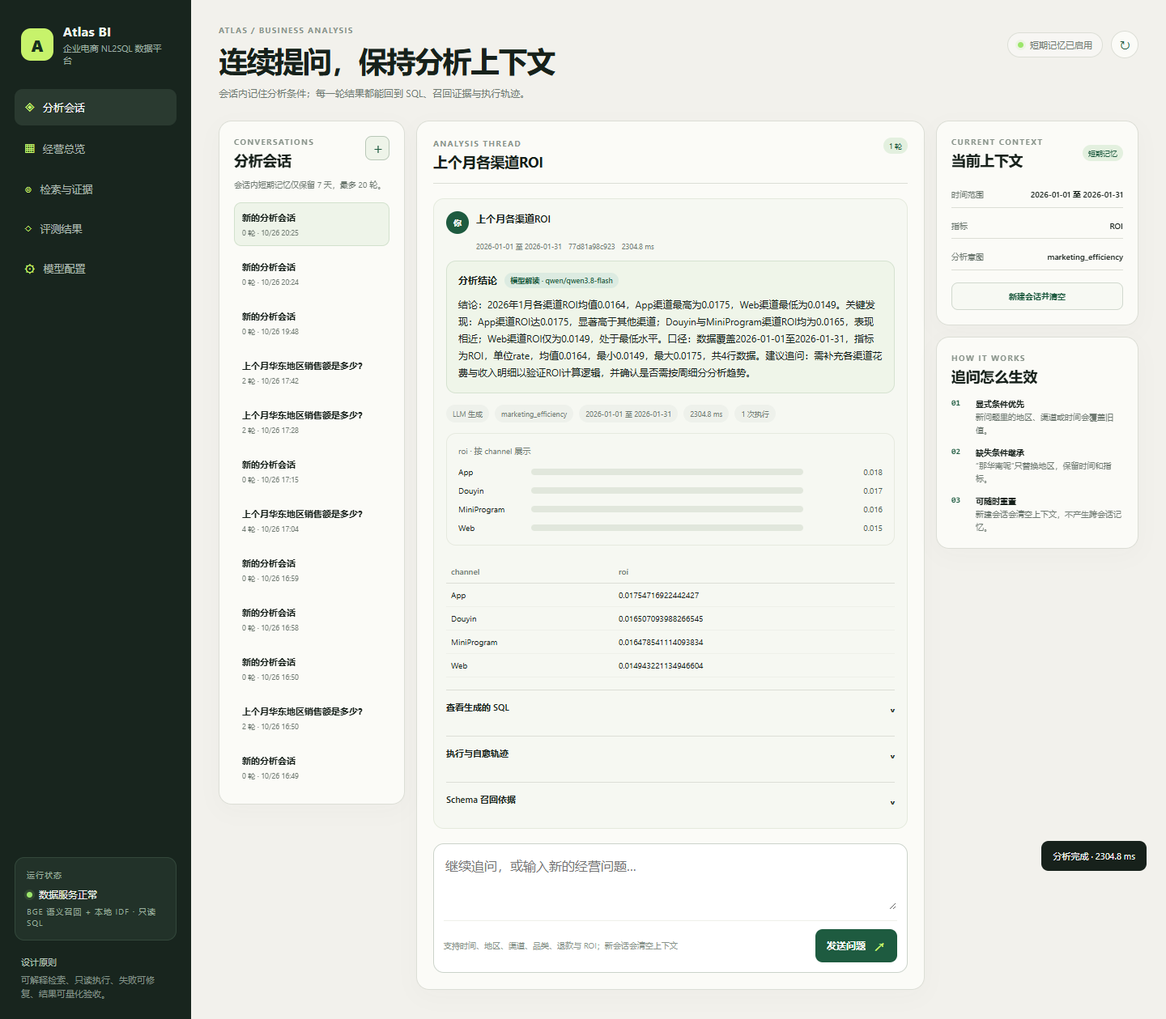
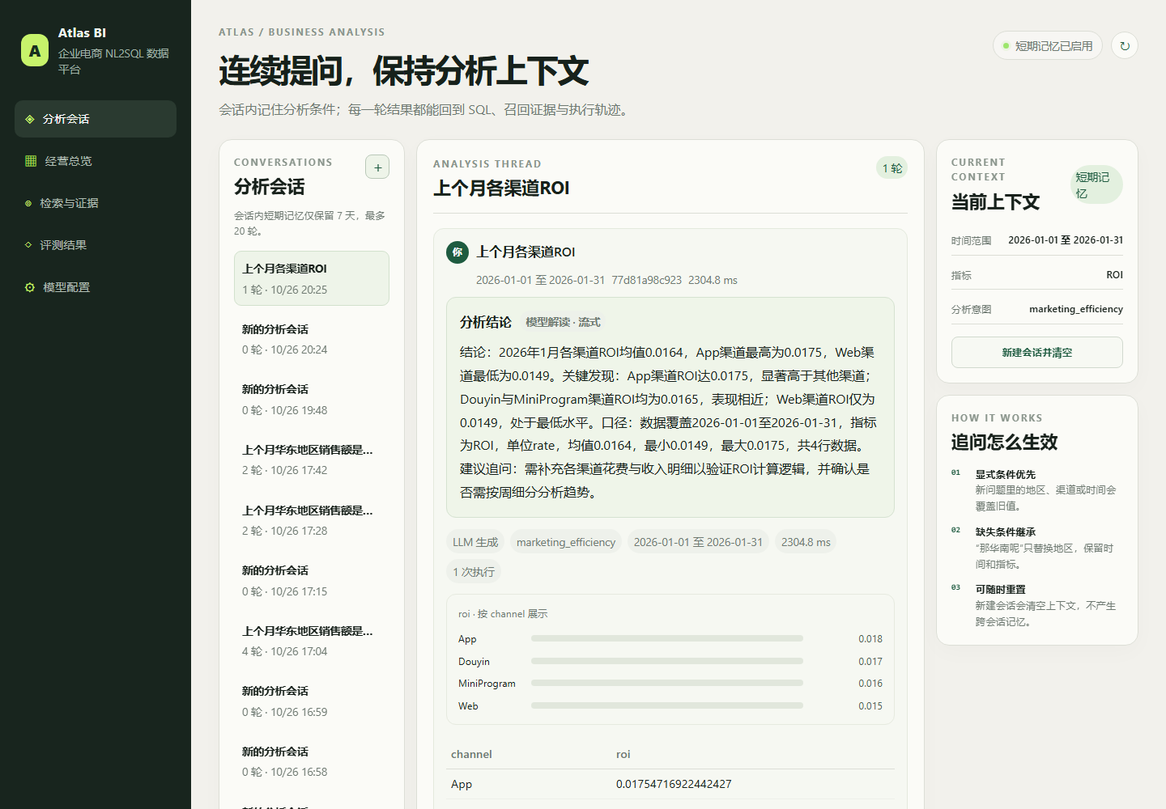
fix: improve workspace readability
Increase workspace typography and refresh the README streaming screenshot.

diff --git a/app/static/styles.css b/app/static/styles.css
@@ -1,126 +1,126 @@
-:root{--bg:#f2f1ec;--ink:#17211b;--muted:#6f7a72;--line:#dcded6;--card:#fbfbf7;--green:#1e5b40;--green-soft:#dcebe1;--lime:#c7f36b;--orange:#d87436;--shadow:0 18px 60px rgba(28,47,35,.08)}
+:root{--fs-caption:clamp(12px,.86vw,13px);--fs-meta:clamp(13px,.94vw,14px);--fs-small:clamp(14px,1vw,15px);--fs-body:16px;--bg:#f2f1ec;--ink:#17211b;--muted:#6f7a72;--line:#dcded6;--card:#fbfbf7;--green:#1e5b40;--green-soft:#dcebe1;--lime:#c7f36b;--orange:#d87436;--shadow:0 18px 60px rgba(28,47,35,.08)}
 *{box-sizing:border-box}html,body{margin:0;min-height:100%}
-body{background:var(--bg);color:var(--ink);font-family:"Aptos","Segoe UI","PingFang SC","Microsoft YaHei",sans-serif;-webkit-font-smoothing:antialiased}
+body{background:var(--bg);color:var(--ink);font-size:var(--fs-body);line-height:1.5;font-family:"Aptos","Segoe UI","PingFang SC","Microsoft YaHei",sans-serif;-webkit-font-smoothing:antialiased}
 button,textarea{font:inherit}button{cursor:pointer}
 .app-shell{display:grid;grid-template-columns:236px 1fr;min-height:100vh}
 .sidebar{background:#18251e;color:#eef3ed;padding:28px 18px 22px;display:flex;flex-direction:column}
 .brand{display:flex;align-items:center;gap:12px;padding:0 8px 28px}
 .brand-mark{width:40px;height:40px;border-radius:12px;display:grid;place-items:center;background:var(--lime);color:#17301f;font-weight:800;font-size:20px}
-.brand-name{font-weight:700;letter-spacing:.02em}.brand-sub{color:#9fafa3;font-size:11px;margin-top:3px}
-.nav{display:grid;gap:6px}.nav-item{border:0;background:transparent;color:#aebbb1;display:flex;gap:10px;align-items:center;text-align:left;padding:11px 12px;border-radius:10px;font-size:13px}
+.brand-name{font-weight:700;letter-spacing:.02em}.brand-sub{color:#9fafa3;font-size:var(--fs-meta);margin-top:3px}
+.nav{display:grid;gap:6px}.nav-item{border:0;background:transparent;color:#aebbb1;display:flex;gap:10px;align-items:center;text-align:left;padding:11px 12px;border-radius:10px;font-size:var(--fs-small)}
 .nav-item:hover,.nav-item.active{background:#2a3a30;color:#fff}.nav-icon{color:var(--lime);font-size:16px}
 .sidebar-card{margin-top:auto;background:#223229;border:1px solid #33483b;border-radius:12px;padding:14px}
-.sidebar-label,.mini-meta{color:#9caf9f;font-size:10px;text-transform:uppercase;letter-spacing:.1em}
-.status-row{display:flex;align-items:center;gap:8px;font-size:12px;margin:9px 0 6px}
+.sidebar-label,.mini-meta{color:#9caf9f;font-size:var(--fs-caption);text-transform:uppercase;letter-spacing:.1em}
+.status-row{display:flex;align-items:center;gap:8px;font-size:var(--fs-body);margin:9px 0 6px}
 .status-dot{width:7px;height:7px;border-radius:50%;background:#9ce66b;display:inline-block;box-shadow:0 0 0 3px rgba(156,230,107,.12)}
-.sidebar-foot{color:#849489;font-size:11px;padding:18px 8px 0;line-height:1.6}.foot-title{color:#b7c6ba;margin-bottom:4px}.sidebar-foot p{margin:0}
+.sidebar-foot{color:#849489;font-size:var(--fs-meta);padding:18px 8px 0;line-height:1.6}.foot-title{color:#b7c6ba;margin-bottom:4px}.sidebar-foot p{margin:0}
 .main{padding:30px 34px 36px;max-width:1700px}
 .topbar{display:flex;align-items:flex-start;justify-content:space-between;gap:20px;margin-bottom:24px}
-.eyebrow{color:#8a958c;letter-spacing:.12em;font-size:10px;font-weight:700}
-h1{margin:6px 0 0;font-size:clamp(24px,2.5vw,36px);font-weight:600;letter-spacing:-.04em}
-h2{margin:4px 0 0;font-size:18px;font-weight:650;letter-spacing:-.02em}h3{margin:20px 0 6px;font-size:17px}
+.eyebrow{color:#8a958c;letter-spacing:.12em;font-size:var(--fs-caption);font-weight:700}
+h1{margin:6px 0 0;font-size:clamp(29px,2.75vw,40px);font-weight:600;letter-spacing:-.04em}
+h2{margin:4px 0 0;font-size:clamp(21px,1.55vw,24px);font-weight:650;letter-spacing:-.02em}h3{margin:20px 0 6px;font-size:20px}
 .top-actions{display:flex;align-items:center;gap:10px;padding-top:8px}
-.pill{display:inline-flex;align-items:center;gap:8px;border:1px solid var(--line);border-radius:100px;padding:7px 12px;font-size:11px;color:var(--muted);background:rgba(255,255,255,.38)}
+.pill{display:inline-flex;align-items:center;gap:8px;border:1px solid var(--line);border-radius:100px;padding:7px 12px;font-size:var(--fs-meta);color:var(--muted);background:rgba(255,255,255,.38)}
 .icon-btn{border:1px solid var(--line);background:var(--card);width:34px;height:34px;border-radius:50%;color:var(--green)}
 .metrics-grid,.eval-summary{display:grid;grid-template-columns:repeat(4,1fr);gap:12px;margin-bottom:14px}
 .metric-card{background:var(--card);border:1px solid var(--line);border-radius:14px;padding:16px 18px;min-height:104px;position:relative;overflow:hidden}
 .metric-card::after{content:"";position:absolute;width:80px;height:80px;right:-32px;bottom:-40px;border-radius:50%;background:var(--green-soft);opacity:.7}
-.metric-label{font-size:11px;color:var(--muted);display:flex;justify-content:space-between}
-.metric-value{font-size:27px;margin-top:15px;font-weight:650;letter-spacing:-.04em}
-.metric-foot{font-size:10px;color:var(--muted);margin-top:6px}
+.metric-label{font-size:var(--fs-meta);color:var(--muted);display:flex;justify-content:space-between}
+.metric-value{font-size:30px;margin-top:15px;font-weight:650;letter-spacing:-.04em}
+.metric-foot{font-size:var(--fs-caption);color:var(--muted);margin-top:6px}
 .skeleton{background:linear-gradient(90deg,#ebede5 20%,#f7f8f2 50%,#ebede5 80%);background-size:220% 100%;animation:shimmer 1.3s infinite}
 @keyframes shimmer{to{background-position:-220% 0}}
 .workspace-grid{display:grid;grid-template-columns:minmax(390px,.88fr) minmax(0,1.25fr);gap:14px}
 .panel{background:var(--card);border:1px solid var(--line);border-radius:16px;box-shadow:0 8px 28px rgba(36,50,40,.025)}
 .ask-panel{padding:22px}.result-panel{padding:22px;min-height:470px;overflow:auto}
 .panel-head{display:flex;align-items:flex-start;justify-content:space-between;gap:14px}.panel-head.compact{align-items:center}
-.panel-kicker{font-size:10px;letter-spacing:.13em;color:#8a958c;font-weight:750}
-.tag{background:var(--green-soft);color:var(--green);font-size:10px;padding:6px 9px;border-radius:7px}
+.panel-kicker{font-size:var(--fs-caption);letter-spacing:.13em;color:#8a958c;font-weight:750}
+.tag{background:var(--green-soft);color:var(--green);font-size:var(--fs-caption);padding:6px 9px;border-radius:7px}
 .query-form{margin-top:22px;border:1px solid #cbd3ca;border-radius:13px;background:#fff;padding:14px}
 .query-form:focus-within{border-color:var(--green);box-shadow:0 0 0 3px rgba(30,91,64,.08)}
 textarea{width:100%;border:0;outline:0;resize:vertical;min-height:70px;color:var(--ink);background:transparent;line-height:1.6;font-size:16px}
 .form-foot{display:flex;justify-content:space-between;align-items:center;gap:10px;border-top:1px solid #eef0e9;padding-top:11px}
-.hint{color:#8a958c;font-size:10px;line-height:1.4}
-.primary-btn{border:0;background:var(--green);color:#fff;border-radius:9px;padding:10px 14px;font-weight:600;font-size:12px;display:flex;align-items:center;gap:9px;white-space:nowrap}
+.hint{color:#8a958c;font-size:var(--fs-caption);line-height:1.4}
+.primary-btn{border:0;background:var(--green);color:#fff;border-radius:9px;padding:10px 14px;font-weight:600;font-size:var(--fs-body);display:flex;align-items:center;gap:9px;white-space:nowrap}
 .primary-btn:hover{background:#123e2a}.primary-btn:disabled{opacity:.6}.arrow{font-size:16px;color:var(--lime)}
-.section-label{color:#839087;font-size:10px;letter-spacing:.12em;text-transform:uppercase;margin:23px 0 9px}
+.section-label{color:#839087;font-size:var(--fs-caption);letter-spacing:.12em;text-transform:uppercase;margin:23px 0 9px}
 .example-list{display:flex;flex-wrap:wrap;gap:7px}
-.example-chip{border:1px solid var(--line);background:#f8f9f4;color:#536058;border-radius:100px;padding:7px 10px;font-size:11px;text-align:left}
+.example-chip{border:1px solid var(--line);background:#f8f9f4;color:#536058;border-radius:100px;padding:7px 10px;font-size:var(--fs-meta);text-align:left}
 .example-chip:hover{border-color:#8cab94;color:var(--green);background:#edf5eb}
 .pipeline{margin-top:24px;padding-top:15px;border-top:1px solid var(--line);display:flex;align-items:center;justify-content:space-between;gap:5px}
-.pipeline-step{font-size:9px;color:var(--muted);white-space:nowrap}.pipeline-step span{display:block;color:#819989;font-size:9px;font-weight:700;margin-bottom:3px}
-.pipeline-arrow{color:#b1c1b5;font-size:11px}
+.pipeline-step{font-size:var(--fs-meta);color:var(--muted);white-space:nowrap}.pipeline-step span{display:block;color:#819989;font-size:var(--fs-meta);font-weight:700;margin-bottom:3px}
+.pipeline-arrow{color:#b1c1b5;font-size:var(--fs-meta)}
 .empty-state{min-height:420px;display:flex;flex-direction:column;justify-content:center;align-items:center;text-align:center;padding:30px}
-.empty-state p{max-width:370px;color:var(--muted);font-size:12px;line-height:1.7}
+.empty-state p{max-width:370px;color:var(--muted);font-size:var(--fs-body);line-height:1.7}
 .empty-orbit{position:relative;width:104px;height:104px;border:1px dashed #b6cbb9;border-radius:50%;display:grid;place-items:center}
 .orbit-core{width:55px;height:55px;border-radius:50%;background:var(--green);color:var(--lime);display:grid;place-items:center;font-weight:750;letter-spacing:-.03em}
 .orbit-dot{position:absolute;width:8px;height:8px;border-radius:50%;background:var(--orange)}.dot-one{top:5px;right:20px}.dot-two{bottom:13px;left:10px;background:var(--green)}
-.feature-row{display:flex;gap:14px;flex-wrap:wrap;justify-content:center;color:#62776a;font-size:10px;margin-top:13px}
+.feature-row{display:flex;gap:14px;flex-wrap:wrap;justify-content:center;color:#62776a;font-size:var(--fs-caption);margin-top:13px}
 .feature-row span::before{content:"✓";color:var(--green);margin-right:4px}
 .bottom-grid{display:grid;grid-template-columns:1.55fr 1fr;gap:14px;margin-top:14px}
 .trend-panel,.channel-panel{padding:20px 22px 16px;min-height:230px}
-.muted{color:var(--muted);font-size:10px}
+.muted{color:var(--muted);font-size:var(--fs-caption)}
 .trend-chart{height:160px;display:flex;align-items:flex-end;gap:5px;padding-top:22px;border-bottom:1px solid var(--line)}
 .bar-wrap{flex:1;height:100%;display:flex;align-items:flex-end;min-width:4px;position:relative}
 .bar{width:100%;background:var(--green);border-radius:4px 4px 0 0;min-height:3px;transition:height .5s ease;opacity:.9}
-.bar-wrap:hover .bar{background:var(--orange)}.bar-wrap:hover::after{content:attr(data-label);position:absolute;bottom:calc(100% + 5px);font-size:9px;background:var(--ink);color:#fff;padding:4px 6px;border-radius:4px;white-space:nowrap;z-index:2}
-.channel-list{display:grid;gap:13px;padding-top:24px}.channel-row{display:grid;grid-template-columns:80px 1fr 60px;align-items:center;gap:10px;font-size:11px}
+.bar-wrap:hover .bar{background:var(--orange)}.bar-wrap:hover::after{content:attr(data-label);position:absolute;bottom:calc(100% + 5px);font-size:var(--fs-meta);background:var(--ink);color:#fff;padding:4px 6px;border-radius:4px;white-space:nowrap;z-index:2}
+.channel-list{display:grid;gap:13px;padding-top:24px}.channel-row{display:grid;grid-template-columns:80px 1fr 60px;align-items:center;gap:10px;font-size:var(--fs-meta)}
 .channel-track{height:7px;background:#e8ebe3;border-radius:100px;overflow:hidden}.channel-fill{height:100%;background:var(--green);border-radius:100px}.channel-value{text-align:right;color:var(--muted)}
-.result-answer{background:#eff5e9;border:1px solid #d5e2d0;border-radius:12px;padding:14px;margin-bottom:14px;font-size:12px;line-height:1.65}
-.result-meta{display:flex;gap:7px;flex-wrap:wrap;margin-bottom:13px}.small-pill{font-size:9px;padding:5px 8px;border-radius:100px;background:#eef1eb;color:var(--muted)}
+.result-answer{background:#eff5e9;border:1px solid #d5e2d0;border-radius:12px;padding:16px;margin-bottom:14px;font-size:var(--fs-body);line-height:1.65}
+.result-meta{display:flex;gap:7px;flex-wrap:wrap;margin-bottom:13px}.small-pill{font-size:var(--fs-meta);padding:5px 8px;border-radius:100px;background:#eef1eb;color:var(--muted)}
 .chart-box{background:#f6f8f2;border:1px solid #e6eadf;border-radius:12px;padding:14px;margin-bottom:13px}
-.chart-title{font-size:10px;color:var(--muted);margin-bottom:12px}.chart-bars{display:grid;gap:9px}.chart-row{display:grid;grid-template-columns:82px 1fr 90px;align-items:center;gap:8px;font-size:10px}.chart-track{height:8px;background:#e1e7dc;border-radius:100px;overflow:hidden}.chart-fill{height:100%;background:var(--green);border-radius:100px}.chart-num{text-align:right;color:#4f5f53}
-.result-table{width:100%;border-collapse:collapse;font-size:10px;margin-top:5px}.result-table th{text-align:left;color:var(--muted);font-weight:500;border-bottom:1px solid var(--line);padding:7px 6px}.result-table td{padding:7px 6px;border-bottom:1px solid #eef0e9}
-.sql-block{background:#17251d;color:#d7ecd9;border-radius:10px;padding:13px;font:10px/1.65 Consolas,"Courier New",monospace;white-space:pre-wrap;overflow:auto;max-height:190px}
-.accordion{border-top:1px solid var(--line);margin-top:15px}.accordion summary{list-style:none;cursor:pointer;padding:13px 0;font-size:11px;font-weight:600;display:flex;justify-content:space-between}.accordion summary::-webkit-details-marker{display:none}
-.trace{display:grid;gap:7px}.trace-item{display:flex;align-items:center;gap:8px;font-size:10px;color:var(--muted)}.trace-mark{width:18px;height:18px;border-radius:50%;display:grid;place-items:center;background:#e5efe3;color:var(--green);font-size:9px}.trace-mark.bad{background:#f6e4da;color:var(--orange)}
+.chart-title{font-size:var(--fs-caption);color:var(--muted);margin-bottom:12px}.chart-bars{display:grid;gap:9px}.chart-row{display:grid;grid-template-columns:82px 1fr 90px;align-items:center;gap:8px;font-size:var(--fs-caption)}.chart-track{height:8px;background:#e1e7dc;border-radius:100px;overflow:hidden}.chart-fill{height:100%;background:var(--green);border-radius:100px}.chart-num{text-align:right;color:#4f5f53}
+.result-table{width:100%;border-collapse:collapse;font-size:var(--fs-small);margin-top:5px}.result-table th{text-align:left;color:var(--muted);font-weight:500;border-bottom:1px solid var(--line);padding:7px 6px}.result-table td{padding:7px 6px;border-bottom:1px solid #eef0e9}
+.sql-block{background:#17251d;color:#d7ecd9;border-radius:10px;padding:13px;font:13px/1.7 Consolas,"Courier New",monospace;white-space:pre-wrap;overflow:auto;max-height:190px}
+.accordion{border-top:1px solid var(--line);margin-top:15px}.accordion summary{list-style:none;cursor:pointer;padding:13px 0;font-size:var(--fs-meta);font-weight:600;display:flex;justify-content:space-between}.accordion summary::-webkit-details-marker{display:none}
+.trace{display:grid;gap:7px}.trace-item{display:flex;align-items:center;gap:8px;font-size:var(--fs-caption);color:var(--muted)}.trace-mark{width:18px;height:18px;border-radius:50%;display:grid;place-items:center;background:#e5efe3;color:var(--green);font-size:var(--fs-meta)}.trace-mark.bad{background:#f6e4da;color:var(--orange)}
 .view{display:none}.view.active{display:block}
-.page-heading{padding:16px 0 22px}.page-heading h2{font-size:24px;margin:8px 0 6px}.page-heading p{color:var(--muted);font-size:12px;margin:0}
-.evidence-content{display:grid;gap:13px}.empty-small{min-height:160px;display:grid;place-items:center;color:var(--muted);font-size:12px}
-.schema-card{padding:18px 20px}.schema-head{display:flex;justify-content:space-between;align-items:flex-start;gap:10px}.schema-name{font-weight:650;font-size:13px}.schema-desc{color:var(--muted);font-size:11px;line-height:1.6;margin:6px 0 12px}
-.score-grid{display:grid;grid-template-columns:repeat(3,1fr);gap:8px}.score-box{background:#f3f5ef;border-radius:8px;padding:9px}.score-label{font-size:9px;color:var(--muted)}.score-value{font-size:16px;margin-top:4px;font-weight:650;color:var(--green)}
-.table-wrap{overflow:auto;margin-top:12px}.eval-table{width:100%;border-collapse:collapse;font-size:11px}.eval-table th{text-align:left;padding:9px;color:var(--muted);font-weight:500;border-bottom:1px solid var(--line)}.eval-table td{padding:10px 9px;border-bottom:1px solid #edf0e9}
-.badge{font-size:9px;padding:4px 7px;border-radius:100px;background:#e3f0df;color:var(--green)}.badge.fail{background:#f8e5db;color:var(--orange)}
-.secondary-btn{border:1px solid #b9c8b8;background:#f7f9f3;color:var(--green);border-radius:8px;padding:8px 12px;font-size:11px;font-weight:600}
-.toast{position:fixed;right:24px;bottom:24px;background:var(--ink);color:#fff;border-radius:9px;padding:11px 14px;font-size:11px;opacity:0;transform:translateY(8px);transition:.2s;z-index:20}.toast.show{opacity:1;transform:translateY(0)}
+.page-heading{padding:16px 0 22px}.page-heading h2{font-size:24px;margin:8px 0 6px}.page-heading p{color:var(--muted);font-size:var(--fs-body);margin:0}
+.evidence-content{display:grid;gap:13px}.empty-small{min-height:160px;display:grid;place-items:center;color:var(--muted);font-size:var(--fs-body)}
+.schema-card{padding:18px 20px}.schema-head{display:flex;justify-content:space-between;align-items:flex-start;gap:10px}.schema-name{font-weight:650;font-size:var(--fs-small)}.schema-desc{color:var(--muted);font-size:var(--fs-meta);line-height:1.6;margin:6px 0 12px}
+.score-grid{display:grid;grid-template-columns:repeat(3,1fr);gap:8px}.score-box{background:#f3f5ef;border-radius:8px;padding:9px}.score-label{font-size:var(--fs-meta);color:var(--muted)}.score-value{font-size:16px;margin-top:4px;font-weight:650;color:var(--green)}
+.table-wrap{overflow:auto;margin-top:12px}.eval-table{width:100%;border-collapse:collapse;font-size:var(--fs-meta)}.eval-table th{text-align:left;padding:9px;color:var(--muted);font-weight:500;border-bottom:1px solid var(--line)}.eval-table td{padding:10px 9px;border-bottom:1px solid #edf0e9}
+.badge{font-size:var(--fs-meta);padding:4px 7px;border-radius:100px;background:#e3f0df;color:var(--green)}.badge.fail{background:#f8e5db;color:var(--orange)}
+.secondary-btn{border:1px solid #b9c8b8;background:#f7f9f3;color:var(--green);border-radius:8px;padding:8px 12px;font-size:var(--fs-meta);font-weight:600}
+.toast{position:fixed;right:24px;bottom:24px;background:var(--ink);color:#fff;border-radius:9px;padding:11px 14px;font-size:var(--fs-meta);opacity:0;transform:translateY(8px);transition:.2s;z-index:20}.toast.show{opacity:1;transform:translateY(0)}
 
-.top-subtitle{color:var(--muted);font-size:12px;margin:8px 0 0;line-height:1.6}
+.top-subtitle{color:var(--muted);font-size:var(--fs-body);margin:8px 0 0;line-height:1.6}
 .session-shell{display:grid;grid-template-columns:230px minmax(420px,1fr) 250px;gap:14px;align-items:start}
 .session-rail{padding:18px;position:sticky;top:18px}
 .session-rail-head{display:flex;align-items:flex-start;justify-content:space-between;gap:10px}
-.session-rail-note{font-size:10px;line-height:1.6;color:var(--muted);margin:10px 0 14px}
+.session-rail-note{font-size:var(--fs-caption);line-height:1.6;color:var(--muted);margin:10px 0 14px}
 .new-session-btn{width:30px;height:30px;border-radius:8px;border:1px solid #b9c8b8;background:#eef4e9;color:var(--green);font-size:18px;line-height:1}
 .session-list{display:grid;gap:7px}
-.session-empty,.context-empty{padding:12px;border-radius:9px;background:#f3f5ef;color:var(--muted);font-size:10px;line-height:1.6}
+.session-empty,.context-empty{padding:12px;border-radius:9px;background:#f3f5ef;color:var(--muted);font-size:var(--fs-caption);line-height:1.6}
 .session-item{display:grid;gap:5px;text-align:left;border:1px solid transparent;background:transparent;border-radius:9px;padding:10px 9px;color:var(--ink)}
 .session-item:hover,.session-item.active{background:#eef4e9;border-color:#d2e1cd}
-.session-item-title{font-size:11px;font-weight:650;overflow:hidden;text-overflow:ellipsis;white-space:nowrap}
-.session-item-meta{font-size:9px;color:var(--muted)}
+.session-item-title{font-size:var(--fs-meta);font-weight:650;overflow:hidden;text-overflow:ellipsis;white-space:nowrap}
+.session-item-meta{font-size:var(--fs-meta);color:var(--muted)}
 .conversation-panel{padding:20px;min-height:610px;display:flex;flex-direction:column}
 .conversation-head{display:flex;justify-content:space-between;align-items:flex-start;gap:12px;border-bottom:1px solid var(--line);padding-bottom:14px}
 .conversation-thread{display:grid;gap:16px;padding:18px 0;flex:1;align-content:start;min-height:360px}
 .conversation-empty{max-width:560px;margin:40px auto;text-align:center;color:var(--muted)}
-.conversation-empty h3{color:var(--ink);margin:15px 0 6px}.conversation-empty p{font-size:11px;line-height:1.7;margin:0 auto 20px;max-width:480px}
+.conversation-empty h3{color:var(--ink);margin:15px 0 6px}.conversation-empty p{font-size:var(--fs-meta);line-height:1.7;margin:0 auto 20px;max-width:480px}
 .conversation-empty-mark{width:54px;height:54px;border-radius:16px;background:var(--green);color:var(--lime);display:grid;place-items:center;margin:0 auto;font-weight:750}
 .starter-grid{display:flex;flex-wrap:wrap;gap:7px;justify-content:center}
 .turn-card{background:#f6f8f2;border:1px solid #e4eadd;border-radius:13px;padding:15px}
-.turn-question{display:grid;grid-template-columns:28px 1fr;gap:9px;align-items:start;font-size:12px;font-weight:600;line-height:1.6}
-.turn-label{width:28px;height:28px;border-radius:50%;display:grid;place-items:center;background:var(--green);color:#fff;font-size:10px;font-weight:650}
-.turn-meta{display:flex;gap:8px;flex-wrap:wrap;color:var(--muted);font-size:9px;margin:9px 0 12px 37px}
+.turn-question{display:grid;grid-template-columns:28px 1fr;gap:9px;align-items:start;font-size:var(--fs-body);font-weight:600;line-height:1.6}
+.turn-label{width:28px;height:28px;border-radius:50%;display:grid;place-items:center;background:var(--green);color:#fff;font-size:var(--fs-caption);font-weight:650}
+.turn-meta{display:flex;gap:8px;flex-wrap:wrap;color:var(--muted);font-size:var(--fs-meta);margin:9px 0 12px 37px}
 .inherited-pill{background:#e9f3dc;color:#42632d}
 .composer{border:1px solid #cbd3ca;border-radius:13px;background:#fff;padding:12px;margin-top:auto}
 .composer-footer,.composer-foot{display:flex;justify-content:space-between;align-items:center;gap:10px;border-top:1px solid #eef0e9;padding-top:10px}
 .composer-foot{margin-top:8px}
-.thinking-card{display:flex;align-items:center;gap:9px;padding:11px 13px;color:var(--muted);font-size:10px;border-radius:9px;background:#eef4e9}
+.thinking-card{display:flex;align-items:center;gap:9px;padding:11px 13px;color:var(--muted);font-size:var(--fs-caption);border-radius:9px;background:#eef4e9}
 .thinking-dot{width:7px;height:7px;border-radius:50%;background:var(--orange);animation:pulse 1s infinite}
 @keyframes pulse{50%{opacity:.3}}
 .context-column{display:grid;gap:14px;position:sticky;top:18px}
 .context-card{padding:18px}
 .context-list{display:grid;gap:7px;margin:15px 0}
-.context-row{display:flex;justify-content:space-between;gap:8px;border-bottom:1px solid var(--line);padding:8px 0;font-size:10px}
+.context-row{display:flex;justify-content:space-between;gap:8px;border-bottom:1px solid var(--line);padding:8px 0;font-size:var(--fs-caption)}
 .context-row span{color:var(--muted)}.context-row strong{text-align:right;font-weight:600;line-height:1.45}
-.context-reset{width:100%;border:1px solid #d1d9ce;background:#f7f9f3;color:var(--green);border-radius:8px;padding:9px;font-size:10px;font-weight:600}
-.context-guide h2{margin-bottom:14px}.guide-row{display:grid;grid-template-columns:22px 1fr;gap:8px;margin-top:12px}.guide-row>span{color:var(--green);font:700 10px/1.5 Consolas,monospace}.guide-row p{font-size:10px;line-height:1.6;color:var(--muted);margin:0}.guide-row strong{color:var(--ink)}
+.context-reset{width:100%;border:1px solid #d1d9ce;background:#f7f9f3;color:var(--green);border-radius:8px;padding:9px;font-size:var(--fs-caption);font-weight:600}
+.context-guide h2{margin-bottom:14px}.guide-row{display:grid;grid-template-columns:22px 1fr;gap:8px;margin-top:12px}.guide-row>span{color:var(--green);font:700 10px/1.5 Consolas,monospace}.guide-row p{font-size:var(--fs-caption);line-height:1.6;color:var(--muted);margin:0}.guide-row strong{color:var(--ink)}
 .overview-heading{display:flex;justify-content:space-between;align-items:flex-end;gap:16px}
 @media(max-width:1250px){.session-shell{grid-template-columns:210px minmax(0,1fr)}.context-column{grid-column:1/-1;grid-template-columns:1fr 1fr;position:static}}
 @media(max-width:1100px){.app-shell{grid-template-columns:72px 1fr}.brand-name,.brand-sub,.nav-item span:not(.nav-icon),.sidebar-card,.sidebar-foot{display:none}.brand{flex-direction:column}.nav-item{justify-content:center}.main{padding:24px}.session-shell{grid-template-columns:1fr}.session-rail,.context-column{position:static}.session-rail .session-list{grid-template-columns:repeat(2,1fr)}.bottom-grid{grid-template-columns:1fr}}
@@ -131,39 +131,43 @@ textarea{width:100%;border:0;outline:0;resize:vertical;min-height:70px;color:var
 .model-layout{display:grid;grid-template-columns:minmax(480px,1.2fr) minmax(320px,.8fr);gap:14px}
 .model-card{padding:22px}
 .model-form{display:grid;gap:14px;margin-top:20px}
-.model-form label{display:grid;gap:6px;font-size:11px;color:var(--muted);font-weight:600}
-.model-form input,.model-form select{border:1px solid #ccd4ca;background:#fff;border-radius:8px;padding:10px 11px;color:var(--ink);font-size:12px;outline:none;width:100%}
+.model-form label{display:grid;gap:6px;font-size:var(--fs-meta);color:var(--muted);font-weight:600}
+.model-form input,.model-form select{border:1px solid #ccd4ca;background:#fff;border-radius:8px;padding:10px 11px;color:var(--ink);font-size:var(--fs-body);outline:none;width:100%}
 .model-form input:focus,.model-form select:focus{border-color:var(--green);box-shadow:0 0 0 3px rgba(30,91,64,.08)}
-.model-form small{font-size:9px;font-weight:400;line-height:1.5;color:#8a958c}
-.switch-row{display:flex!important;grid-template-columns:auto 1fr;align-items:center;font-size:11px}
+.model-form small{font-size:var(--fs-meta);font-weight:400;line-height:1.5;color:#8a958c}
+.switch-row{display:flex!important;grid-template-columns:auto 1fr;align-items:center;font-size:var(--fs-meta)}
 .switch-row input{width:auto}
 .form-actions{display:flex;gap:8px;flex-wrap:wrap}
-.model-message{margin-top:16px;border-radius:8px;background:#f3f5ef;padding:10px 12px;font-size:10px;line-height:1.6;color:var(--muted)}
+.model-message{margin-top:16px;border-radius:8px;background:#f3f5ef;padding:10px 12px;font-size:var(--fs-caption);line-height:1.6;color:var(--muted)}
 .model-message.ok{background:#e5f1e3;color:var(--green)}.model-message.bad{background:#fae9de;color:var(--orange)}
 .model-runtime{display:grid;gap:8px;margin:18px 0 22px}
-.model-runtime>div{display:flex;justify-content:space-between;gap:10px;border-bottom:1px solid var(--line);padding:9px 0;font-size:11px}
+.model-runtime>div{display:flex;justify-content:space-between;gap:10px;border-bottom:1px solid var(--line);padding:9px 0;font-size:var(--fs-meta)}
 .model-runtime span:first-child{color:var(--muted)}.model-runtime span:last-child{text-align:right;word-break:break-all}
-.model-note{display:grid;gap:5px;background:#f3f5ef;border-radius:9px;padding:12px;margin-top:10px;font-size:10px;line-height:1.6;color:var(--muted)}
-.model-note strong{color:var(--ink);font-size:11px}
+.model-note{display:grid;gap:5px;background:#f3f5ef;border-radius:9px;padding:12px;margin-top:10px;font-size:var(--fs-caption);line-height:1.6;color:var(--muted)}
+.model-note strong{color:var(--ink);font-size:var(--fs-meta)}
 .eval-heading{display:flex;justify-content:space-between;align-items:flex-end;gap:18px}
 .eval-meta{display:flex;flex-wrap:wrap;gap:8px;margin:0 0 14px}
-.eval-meta span{border:1px solid var(--line);border-radius:100px;padding:7px 11px;background:rgba(255,255,255,.45);color:var(--muted);font-size:10px}
+.eval-meta span{border:1px solid var(--line);border-radius:100px;padding:7px 11px;background:rgba(255,255,255,.45);color:var(--muted);font-size:var(--fs-caption)}
 .eval-meta strong{color:var(--ink);font-weight:650;margin-left:4px}
 .eval-grid{display:grid;grid-template-columns:minmax(260px,.34fr) minmax(0,1fr);gap:14px}
 .eval-rules{padding:22px}
 .rule-list{display:grid;gap:16px;margin-top:20px}
 .rule-list>div{display:flex;gap:11px;align-items:flex-start}
-.rule-index{color:var(--green);font:700 10px/1.6 Consolas,monospace}
-.rule-list strong{font-size:12px;display:block;margin-bottom:4px}
-.rule-list p{font:11px/1.65 "Aptos","Segoe UI",sans-serif;color:var(--muted);margin:0}
-.eval-note{margin-top:22px;padding:12px;border-radius:9px;background:#f3f5ef;color:var(--muted);font-size:10px;line-height:1.6}
-.eval-result-cell{max-width:230px}.eval-pass{color:var(--green);font-size:10px}.eval-error{color:var(--orange);font-size:10px;line-height:1.5;word-break:break-word}
+.rule-index{color:var(--green);font:700 11px/1.6 Consolas,monospace}
+.rule-list strong{font-size:var(--fs-body);display:block;margin-bottom:4px}
+.rule-list p{font:12px/1.65 "Aptos","Segoe UI",sans-serif;color:var(--muted);margin:0}
+.eval-note{margin-top:22px;padding:12px;border-radius:9px;background:#f3f5ef;color:var(--muted);font-size:var(--fs-caption);line-height:1.6}
+.eval-result-cell{max-width:230px}.eval-pass{color:var(--green);font-size:var(--fs-caption)}.eval-error{color:var(--orange);font-size:var(--fs-caption);line-height:1.5;word-break:break-word}
 @media(max-width:1100px){.model-layout,.eval-grid{grid-template-columns:1fr}.eval-heading{align-items:flex-start;flex-direction:column}.eval-heading .secondary-btn{align-self:flex-start}}
 
-.narrative-tag{display:inline-block;margin-left:6px;border-radius:100px;background:#edf1ea;color:var(--muted);padding:2px 7px;font-size:9px;font-weight:600;vertical-align:1px}
+.narrative-tag{display:inline-block;margin-left:6px;border-radius:100px;background:#edf1ea;color:var(--muted);padding:2px 7px;font-size:var(--fs-meta);font-weight:600;vertical-align:1px}
 .narrative-tag.model{background:var(--green-soft);color:var(--green)}
-.narrative-text{margin-top:9px;line-height:1.75;white-space:normal}
+.narrative-text{margin-top:10px;line-height:1.8;white-space:normal}
 .stream-caret{display:inline-block;width:6px;height:14px;margin-left:3px;background:var(--green);border-radius:1px;vertical-align:-2px;animation:stream-blink .8s steps(1) infinite}
 @keyframes stream-blink{50%{opacity:0}}
 @media(prefers-reduced-motion:reduce){.stream-caret{animation:none}}
-.narrative-thinking{display:inline-flex;align-items:center;gap:7px;color:var(--muted);font-size:11px}
+.narrative-thinking{display:inline-flex;align-items:center;gap:7px;color:var(--muted);font-size:var(--fs-meta)}
+
+@media(max-width:900px){.topbar{margin-bottom:18px}.top-subtitle{max-width:620px}.session-rail .session-list{grid-template-columns:repeat(3,minmax(0,1fr))}.turn-card{padding:14px}.result-answer{font-size:var(--fs-body)}.result-table{font-size:var(--fs-small)}.result-table th,.result-table td{padding:8px 7px}}
+@media(max-width:760px){.main{padding:18px 14px 28px}h1{font-size:29px;letter-spacing:-.03em}.topbar{gap:10px}.top-subtitle{font-size:var(--fs-small)}.session-rail .session-list{grid-template-columns:repeat(2,minmax(0,1fr))}.conversation-panel{padding:14px}.turn-question{font-size:var(--fs-small)}.composer-foot .primary-btn{min-height:40px}}
+@media(max-width:520px){.main{padding:14px 12px 24px}.topbar{margin-bottom:16px}.top-subtitle{line-height:1.55}.session-rail{display:none}.conversation-panel{padding:12px;border-radius:13px}.turn-card{padding:11px;border-radius:11px}.turn-question{grid-template-columns:24px minmax(0,1fr);font-size:var(--fs-small);gap:8px}.turn-label{width:24px;height:24px;font-size:11px}.turn-meta{margin-left:32px;gap:6px}.result-answer{padding:13px}.result-answer strong{font-size:var(--fs-small)}.result-table th,.result-table td{padding:8px 6px}.result-meta{gap:6px}.small-pill,.narrative-tag{font-size:11px}.composer{padding:10px}.composer-foot{align-items:stretch;flex-direction:column}.primary-btn{width:100%;justify-content:center;min-height:42px}.toast{left:12px;right:12px;bottom:14px;text-align:center}}

diff --git a/app/static/app.js b/app/static/app.js
@@ -258,7 +258,7 @@ function renderEvidence(result) {
     <article class="panel schema-card">
       <div class="schema-head"><div><div class="panel-kicker">RECALL #${index + 1}</div><div class="schema-name">${hit.label} · ${hit.table}</div></div><span class="badge">融合 ${hit.score}</span></div>
       <p class="schema-desc">${hit.description}</p>
-      <div class="score-grid"><div class="score-box"><div class="score-label">语义分数</div><div class="score-value">${hit.vector_score}</div></div><div class="score-box"><div class="score-label">关键词分数</div><div class="score-value">${hit.lexical_score}</div></div><div class="score-box"><div class="score-label">命中词</div><div class="score-value" style="font-size:10px">${hit.matched_terms.join(' / ') || '—'}</div></div></div>
+      <div class="score-grid"><div class="score-box"><div class="score-label">语义分数</div><div class="score-value">${hit.vector_score}</div></div><div class="score-box"><div class="score-label">关键词分数</div><div class="score-value">${hit.lexical_score}</div></div><div class="score-box"><div class="score-label">命中词</div><div class="score-value" style="font-size:12px">${hit.matched_terms.join(' / ') || '—'}</div></div></div>
     </article>`,
       )
       .join('') +
